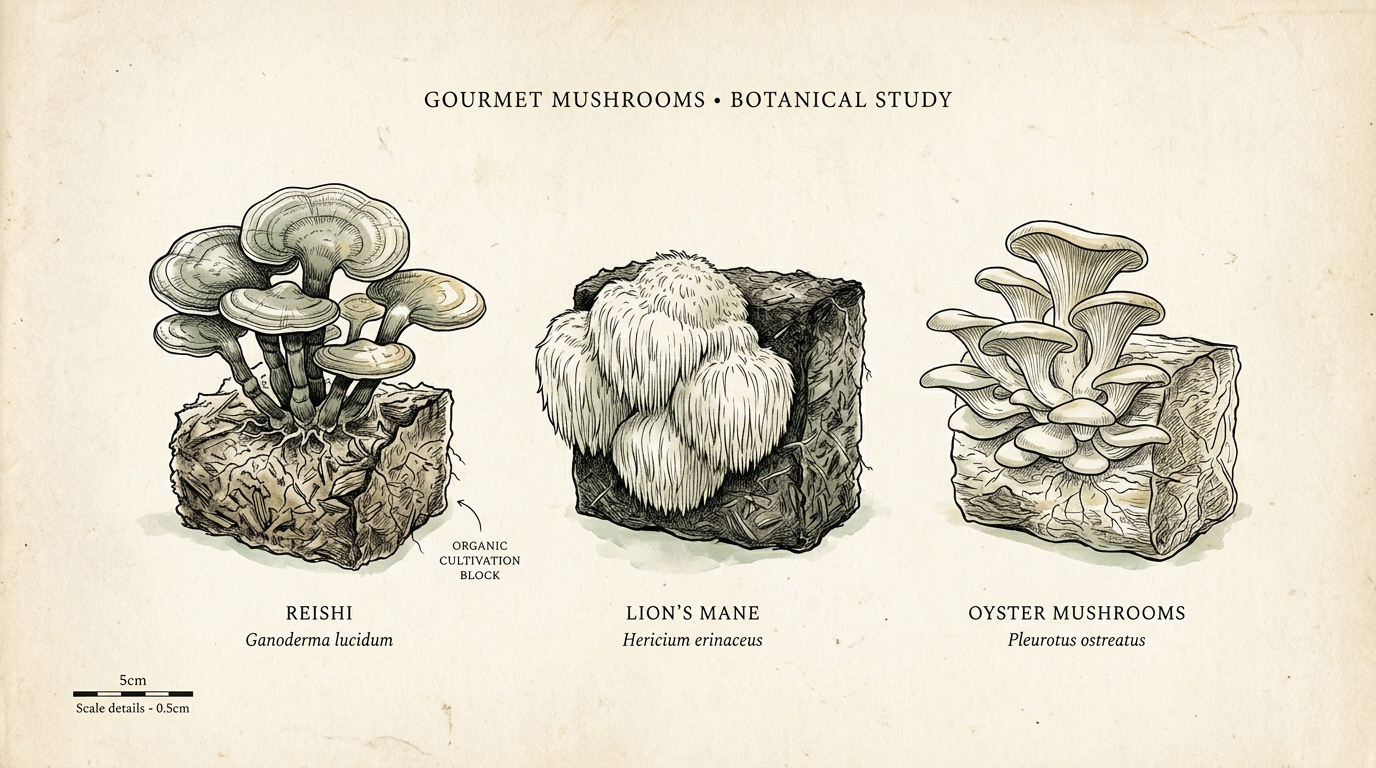
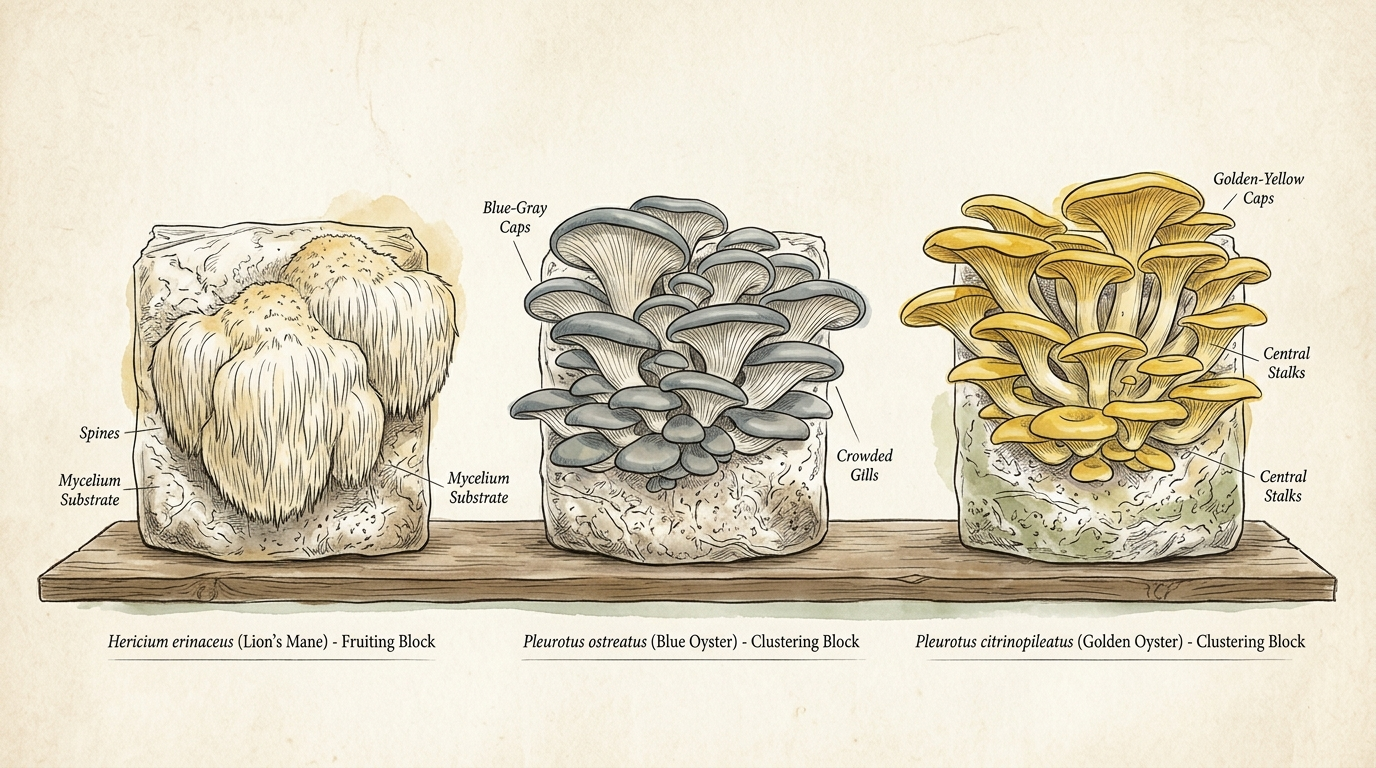
style: replace grow_kits and supplements illustrations with non-repetitive unique panoramic botanical versions and bump cache version to 912

diff --git a/index.html b/index.html
@@ -75,7 +75,7 @@
             <div class="collections-preview-grid">
                 <!-- Cultivation Collection -->
                 <div class="collection-preview-card reveal">
-                    <img src="assets/illustrations/grow_kits.jpg?v=911" alt="Mushroom Cultivation" class="collection-preview-img" style="width: 100%; height: 220px; object-fit: cover; border-radius: var(--radius-md); margin-bottom: 24px; border: 1px solid var(--border-color);">
+                    <img src="assets/illustrations/grow_kits.jpg?v=912" alt="Mushroom Cultivation" class="collection-preview-img" style="width: 100%; height: 220px; object-fit: cover; border-radius: var(--radius-md); margin-bottom: 24px; border: 1px solid var(--border-color);">
                     <div class="collection-preview-info">
                         <span class="collection-tag">Cultivation</span>
                         <h3>Spore Genetics & Grow Kits</h3>
@@ -86,7 +86,7 @@
 
                 <!-- Supplements Collection -->
                 <div class="collection-preview-card reveal">
-                    <img src="assets/illustrations/supplements.jpg?v=911" alt="Functional Supplements" class="collection-preview-img" style="width: 100%; height: 220px; object-fit: cover; border-radius: var(--radius-md); margin-bottom: 24px; border: 1px solid var(--border-color);">
+                    <img src="assets/illustrations/supplements.jpg?v=912" alt="Functional Supplements" class="collection-preview-img" style="width: 100%; height: 220px; object-fit: cover; border-radius: var(--radius-md); margin-bottom: 24px; border: 1px solid var(--border-color);">
                     <div class="collection-preview-info">
                         <span class="collection-tag">Wellness</span>
                         <h3>Functional Adaptogens</h3>

diff --git a/tools/substrate-calculator.html b/tools/substrate-calculator.html
@@ -196,7 +196,7 @@
     <!-- ═══ SUBSTRATE CALCULATOR ═══ -->
     <main class="calc-container">
         <div style="text-align: center; margin-bottom: 40px; background: var(--glass-bg); backdrop-filter: blur(16px); -webkit-backdrop-filter: blur(16px); border: 1px solid var(--glass-border); border-radius: var(--radius-lg); padding: 32px; box-shadow: var(--glass-shadow);">
-            <img src="../assets/illustrations/spores.jpg?v=911" alt="Bulk Substrate Calculator" style="width: 100%; height: 220px; object-fit: cover; border-radius: var(--radius-md); margin-bottom: 24px; border: 1px solid var(--border-color);">
+            <img src="../assets/illustrations/spores.jpg?v=912" alt="Bulk Substrate Calculator" style="width: 100%; height: 220px; object-fit: cover; border-radius: var(--radius-md); margin-bottom: 24px; border: 1px solid var(--border-color);">
             <h1 style="font-family:'DM Serif Display',serif; color:var(--green-dark); font-size:36px; margin-bottom:12px;">Bulk Substrate & Field Capacity Calculator</h1>
             <p style="color:var(--text-secondary); font-size:16px; max-width: 700px; margin: 0 auto; line-height: 1.6;">Calculate precise coco coir, vermiculite, gypsum, and water requirements to hit target field capacity.</p>
         </div>

diff --git a/guides/grow-kit-biological-efficiency.html b/guides/grow-kit-biological-efficiency.html
@@ -142,7 +142,7 @@
             <header class="guide-header">
                 <div class="guide-meta">Category: Cultivation · Technical Guide</div>
                 <h1 class="guide-title">Maximizing Yields: The Science Behind Pre-Colonized Grow Blocks</h1>
-                <img src="../assets/illustrations/grow_kits.jpg?v=911" alt="Maximizing Mushroom Grow Kit Yield: The Science of Biological Efficiency" class="guide-hero-img" style="width:100%; height:320px; object-fit:cover; border-radius:var(--radius-lg); margin-top:24px; border:1px solid var(--border-color);">
+                <img src="../assets/illustrations/grow_kits.jpg?v=912" alt="Maximizing Mushroom Grow Kit Yield: The Science of Biological Efficiency" class="guide-hero-img" style="width:100%; height:320px; object-fit:cover; border-radius:var(--radius-lg); margin-top:24px; border:1px solid var(--border-color);">
             </header>
             
             <p class="guide-intro">Starting a mushroom crop from scratch requires months of sterile lab work, pressure cookers, and high contamination risks. Pre-colonized mushroom grow blocks solve these barriers, utilizing fully established mycelial networks to guarantee massive gourmet harvests.</p>

diff --git a/guides/ds01-synbiotic-gut-science.html b/guides/ds01-synbiotic-gut-science.html
@@ -142,7 +142,7 @@
             <header class="guide-header">
                 <div class="guide-meta">Category: Probiotics · Technical Guide</div>
                 <h1 class="guide-title">Survivability: The Deciding Factor in Probiotic Efficacy</h1>
-                <img src="../assets/illustrations/synbiotics.jpg?v=911" alt="Why Standard Probiotics Fail: The Dual-Capsule Delivery System" class="guide-hero-img" style="width:100%; height:320px; object-fit:cover; border-radius:var(--radius-lg); margin-top:24px; border:1px solid var(--border-color);">
+                <img src="../assets/illustrations/synbiotics.jpg?v=912" alt="Why Standard Probiotics Fail: The Dual-Capsule Delivery System" class="guide-hero-img" style="width:100%; height:320px; object-fit:cover; border-radius:var(--radius-lg); margin-top:24px; border:1px solid var(--border-color);">
             </header>
             
             <p class="guide-intro">Most probiotic supplements on store shelves never actually reach your gut. The high-acid environment of the stomach destroys live bacteria before they arrive in the colon. Here is the science of why delivery technology is just as important as the bacterial strains themselves.</p>

diff --git a/guides/lions-mane-cognitive-wellness.html b/guides/lions-mane-cognitive-wellness.html
@@ -142,7 +142,7 @@
             <header class="guide-header">
                 <div class="guide-meta">Category: Supplements · Technical Guide</div>
                 <h1 class="guide-title">The Scientific Case for Lion's Mane in Cognitive Wellness</h1>
-                <img src="../assets/illustrations/lions_mane_kit.jpg?v=911" alt="Lion's Mane Mushroom Guide: Cognitive Health & NGF Stimulation" class="guide-hero-img" style="width:100%; height:320px; object-fit:cover; border-radius:var(--radius-lg); margin-top:24px; border:1px solid var(--border-color);">
+                <img src="../assets/illustrations/lions_mane_kit.jpg?v=912" alt="Lion's Mane Mushroom Guide: Cognitive Health & NGF Stimulation" class="guide-hero-img" style="width:100%; height:320px; object-fit:cover; border-radius:var(--radius-lg); margin-top:24px; border:1px solid var(--border-color);">
             </header>
             
             <p class="guide-intro">Hericium erinaceus, commonly known as Lion's Mane, is a culinary and medicinal mushroom with unique neurological properties. Emerging research points to its ability to stimulate Nerve Growth Factor (NGF) and actively support memory and focus.</p>

diff --git a/tools/diagnostics.html b/tools/diagnostics.html
@@ -312,7 +312,7 @@
     <!-- ═══ INTERACTIVE DIAGNOSTIC WIZARD ═══ -->
     <main class="diag-container">
         <div class="diag-card">
-            <img src="../assets/illustrations/grow_bags.jpg?v=911" alt="Mushroom Cultivation Diagnostic Wizard" style="width: 100%; height: 220px; object-fit: cover; border-radius: var(--radius-md); margin-bottom: 28px; border: 1px solid var(--border-color);">
+            <img src="../assets/illustrations/grow_bags.jpg?v=912" alt="Mushroom Cultivation Diagnostic Wizard" style="width: 100%; height: 220px; object-fit: cover; border-radius: var(--radius-md); margin-bottom: 28px; border: 1px solid var(--border-color);">
             <h1 style="font-family:'DM Serif Display',serif; color:var(--green-dark); font-size:36px; margin-bottom:12px; text-align:center;">Contamination Diagnostics</h1>
             <p style="color:var(--text-secondary); text-align:center; margin-bottom:32px; font-size:16px;">Diagnose environmental contamination issues and visual symptoms in your home cultivation runs.</p>
             

diff --git a/tools/yield-estimator.html b/tools/yield-estimator.html
@@ -91,7 +91,7 @@
     <main class="tool-container">
         
         <div class="tool-card">
-            <img src="../assets/illustrations/grow_kits.jpg?v=911" alt="Mushroom Cultivation Yield" style="width: 100%; height: 220px; object-fit: cover; border-radius: var(--radius-md); margin-bottom: 28px; border: 1px solid var(--border-color);">
+            <img src="../assets/illustrations/grow_kits.jpg?v=912" alt="Mushroom Cultivation Yield" style="width: 100%; height: 220px; object-fit: cover; border-radius: var(--radius-md); margin-bottom: 28px; border: 1px solid var(--border-color);">
             <h1 style="font-family:'DM Serif Display',serif; color:var(--green-dark); font-size:36px; margin-bottom:12px; text-align:center;">Mushroom Harvest & Yield Estimator</h1>
             <p style="color:var(--text-secondary); text-align:center; margin-bottom:32px; font-size:16px;">Estimate potential biological crop yields for both ready-to-grow blocks and laboratory spawn runs.</p>
 

diff --git a/tools/wellness-stack-builder.html b/tools/wellness-stack-builder.html
@@ -77,7 +77,7 @@
     <main class="tool-container">
         
         <div class="tool-card">
-            <img src="../assets/illustrations/supplements.jpg?v=911" alt="Daily Wellness Stack" style="width: 100%; height: 220px; object-fit: cover; border-radius: var(--radius-md); margin-bottom: 28px; border: 1px solid var(--border-color);">
+            <img src="../assets/illustrations/supplements.jpg?v=912" alt="Daily Wellness Stack" style="width: 100%; height: 220px; object-fit: cover; border-radius: var(--radius-md); margin-bottom: 28px; border: 1px solid var(--border-color);">
             <h1 style="font-family:'DM Serif Display',serif; color:var(--green-dark); font-size:36px; margin-bottom:12px; text-align:center;">Daily Wellness Stack Builder</h1>
             <p style="color:var(--text-secondary); text-align:center; margin-bottom:36px; font-size:16px;">Select your health goals and bio-hacking targets to generate your personalized wellness stack.</p>
 

diff --git a/blog/lions-mane-neurogenesis.html b/blog/lions-mane-neurogenesis.html
@@ -151,7 +151,7 @@
                     <span class="blog-author">By SporlyWorks Editorial</span>
                     <span class="blog-date">2026-07-11</span>
                 </div>
-                <img src="../assets/illustrations/lions_mane_extract.jpg?v=911" alt="Beyond NGF: The Direct Mechanism of Hericenones in Cognitive Plasticity" class="blog-hero-img" style="width:100%; height:320px; object-fit:cover; border-radius:var(--radius-lg); margin-top:24px; border:1px solid var(--border-color);">
+                <img src="../assets/illustrations/lions_mane_extract.jpg?v=912" alt="Beyond NGF: The Direct Mechanism of Hericenones in Cognitive Plasticity" class="blog-hero-img" style="width:100%; height:320px; object-fit:cover; border-radius:var(--radius-lg); margin-top:24px; border:1px solid var(--border-color);">
             </header>
             
             <div class="blog-body">

diff --git a/blog/synbiotics-absorption.html b/blog/synbiotics-absorption.html
@@ -151,7 +151,7 @@
                     <span class="blog-author">By SporlyWorks Editorial</span>
                     <span class="blog-date">2026-07-11</span>
                 </div>
-                <img src="../assets/illustrations/synbiotics.jpg?v=911" alt="Why 90% of Probiotics Fail: The Physics of Gastric Acid Survivability" class="blog-hero-img" style="width:100%; height:320px; object-fit:cover; border-radius:var(--radius-lg); margin-top:24px; border:1px solid var(--border-color);">
+                <img src="../assets/illustrations/synbiotics.jpg?v=912" alt="Why 90% of Probiotics Fail: The Physics of Gastric Acid Survivability" class="blog-hero-img" style="width:100%; height:320px; object-fit:cover; border-radius:var(--radius-lg); margin-top:24px; border:1px solid var(--border-color);">
             </header>
             
             <div class="blog-body">

diff --git a/blog/identifying-grow-contamination.html b/blog/identifying-grow-contamination.html
@@ -151,7 +151,7 @@
                     <span class="blog-author">By SporlyWorks Editorial</span>
                     <span class="blog-date">2026-07-11</span>
                 </div>
-                <img src="../assets/illustrations/spores.jpg?v=911" alt="The Cultivator's Guide to Mold: Trichoderma vs. Cobweb" class="blog-hero-img" style="width:100%; height:320px; object-fit:cover; border-radius:var(--radius-lg); margin-top:24px; border:1px solid var(--border-color);">
+                <img src="../assets/illustrations/spores.jpg?v=912" alt="The Cultivator's Guide to Mold: Trichoderma vs. Cobweb" class="blog-hero-img" style="width:100%; height:320px; object-fit:cover; border-radius:var(--radius-lg); margin-top:24px; border:1px solid var(--border-color);">
             </header>
             
             <div class="blog-body">

diff --git a/_marketing/generate_blog.py b/_marketing/generate_blog.py
@@ -539,7 +539,7 @@ def generate_blog():
             elif "synbiotics" in slug.lower() or "gut" in slug.lower():
                 hero_image = "../assets/illustrations/synbiotics.jpg"
             
-            hero_image_tag = f'<img src="{hero_image}?v=911" alt="{title}" class="blog-hero-img" style="width:100%; height:320px; object-fit:cover; border-radius:var(--radius-lg); margin-top:24px; border:1px solid var(--border-color);">'
+            hero_image_tag = f'<img src="{hero_image}?v=912" alt="{title}" class="blog-hero-img" style="width:100%; height:320px; object-fit:cover; border-radius:var(--radius-lg); margin-top:24px; border:1px solid var(--border-color);">'
 
             # Parse MD to HTML
             body_html = parse_markdown(body_md)
